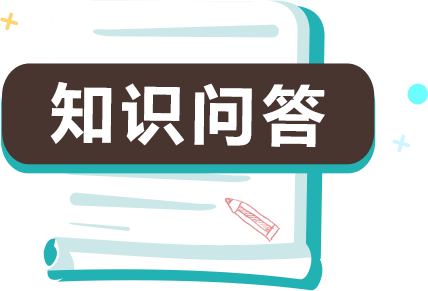
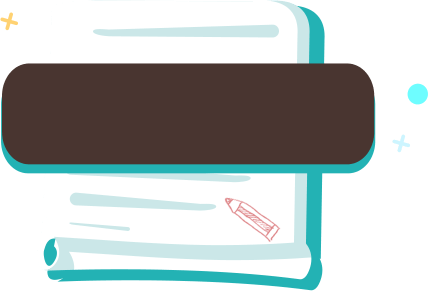
lm

Changed region(s): [[0.1215, 0.2784, 0.7593, 0.5258]]

diff --git a/src/pages/know/index.vue b/src/pages/know/index.vue
@@ -1,6 +1,6 @@
 <template>
   <div class="knowIndex" v-if="gameInfo">
-    <div class="mainTit"></div>
+    <div class="mainTit"><span>知识问答哈哈</span></div>
     <div class="knowRole">
       <img src="../../assets/img/m-icon5.png" class="roleTit">
       <div class="scrollbar">
@@ -88,6 +88,18 @@
       height: 291px;
       margin-top:50px;
       margin-left: 186px;
+      font-size: 64px;
+      font-weight: bold;
+      color: #fff;
+      text-align: center;
+      overflow: hidden;
+      span{
+        display: block;
+        width: 370px;
+        margin-top: 63px;
+        height: 100px;
+        line-height: 100px;
+      }
     }
     .knowRole{
       width: 620px;
